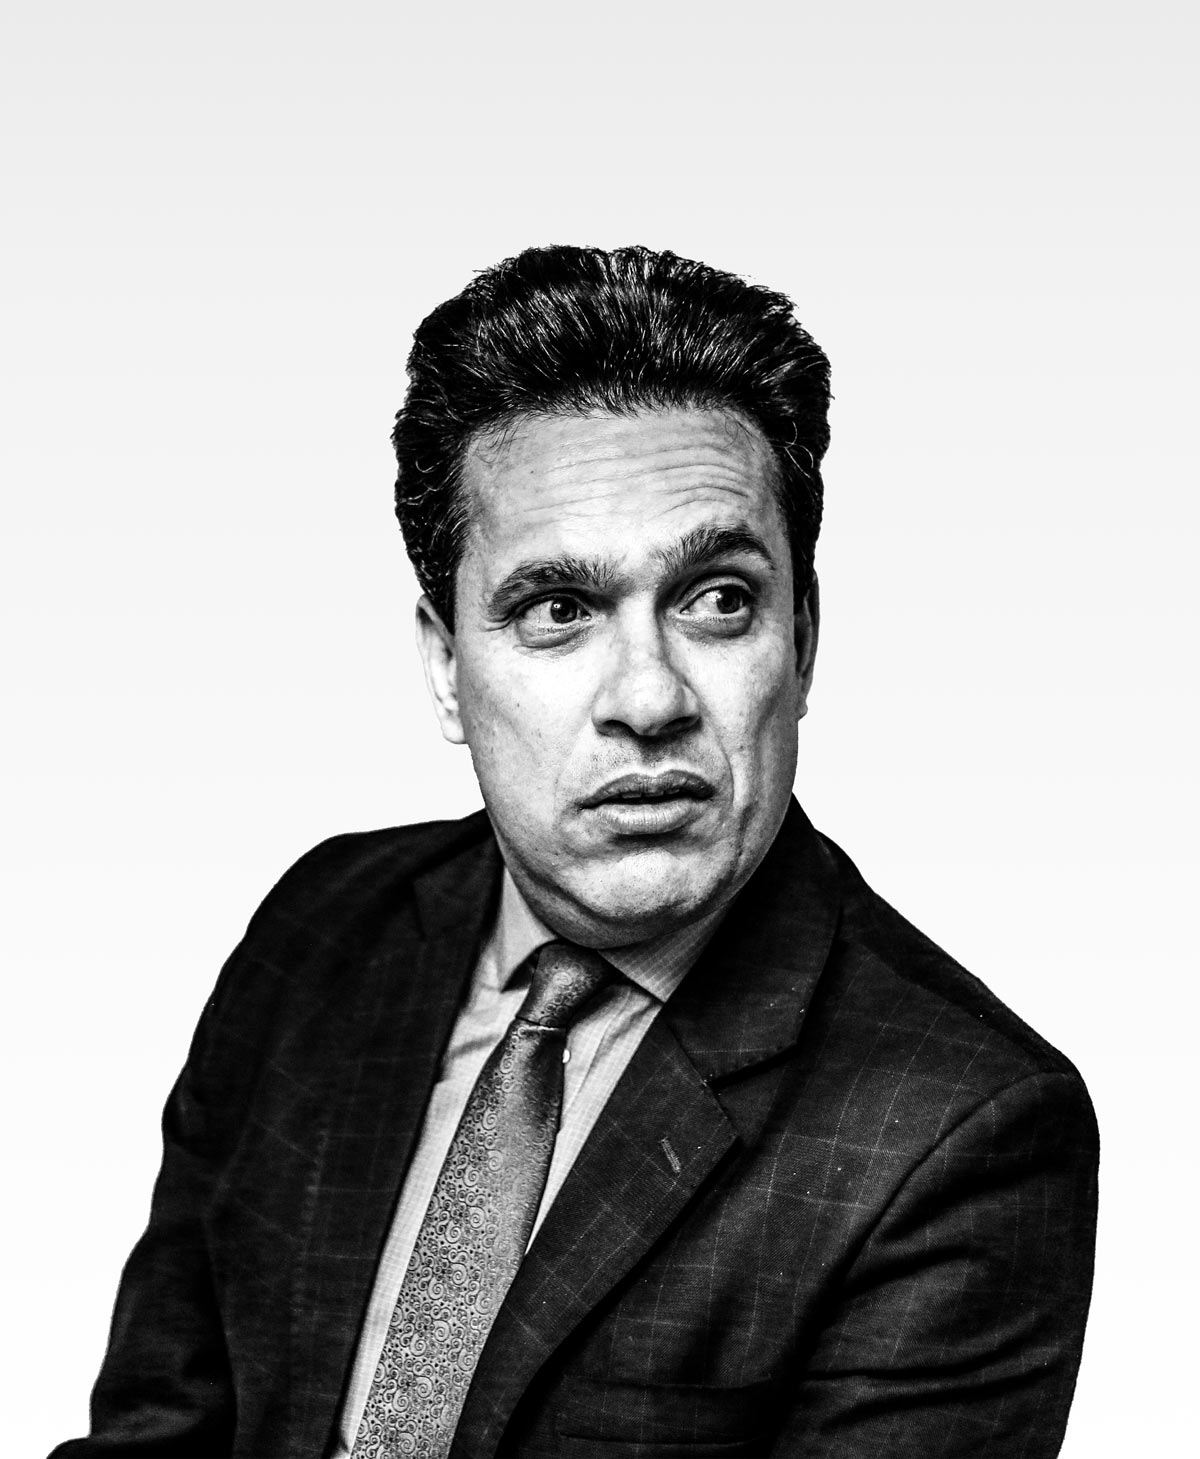
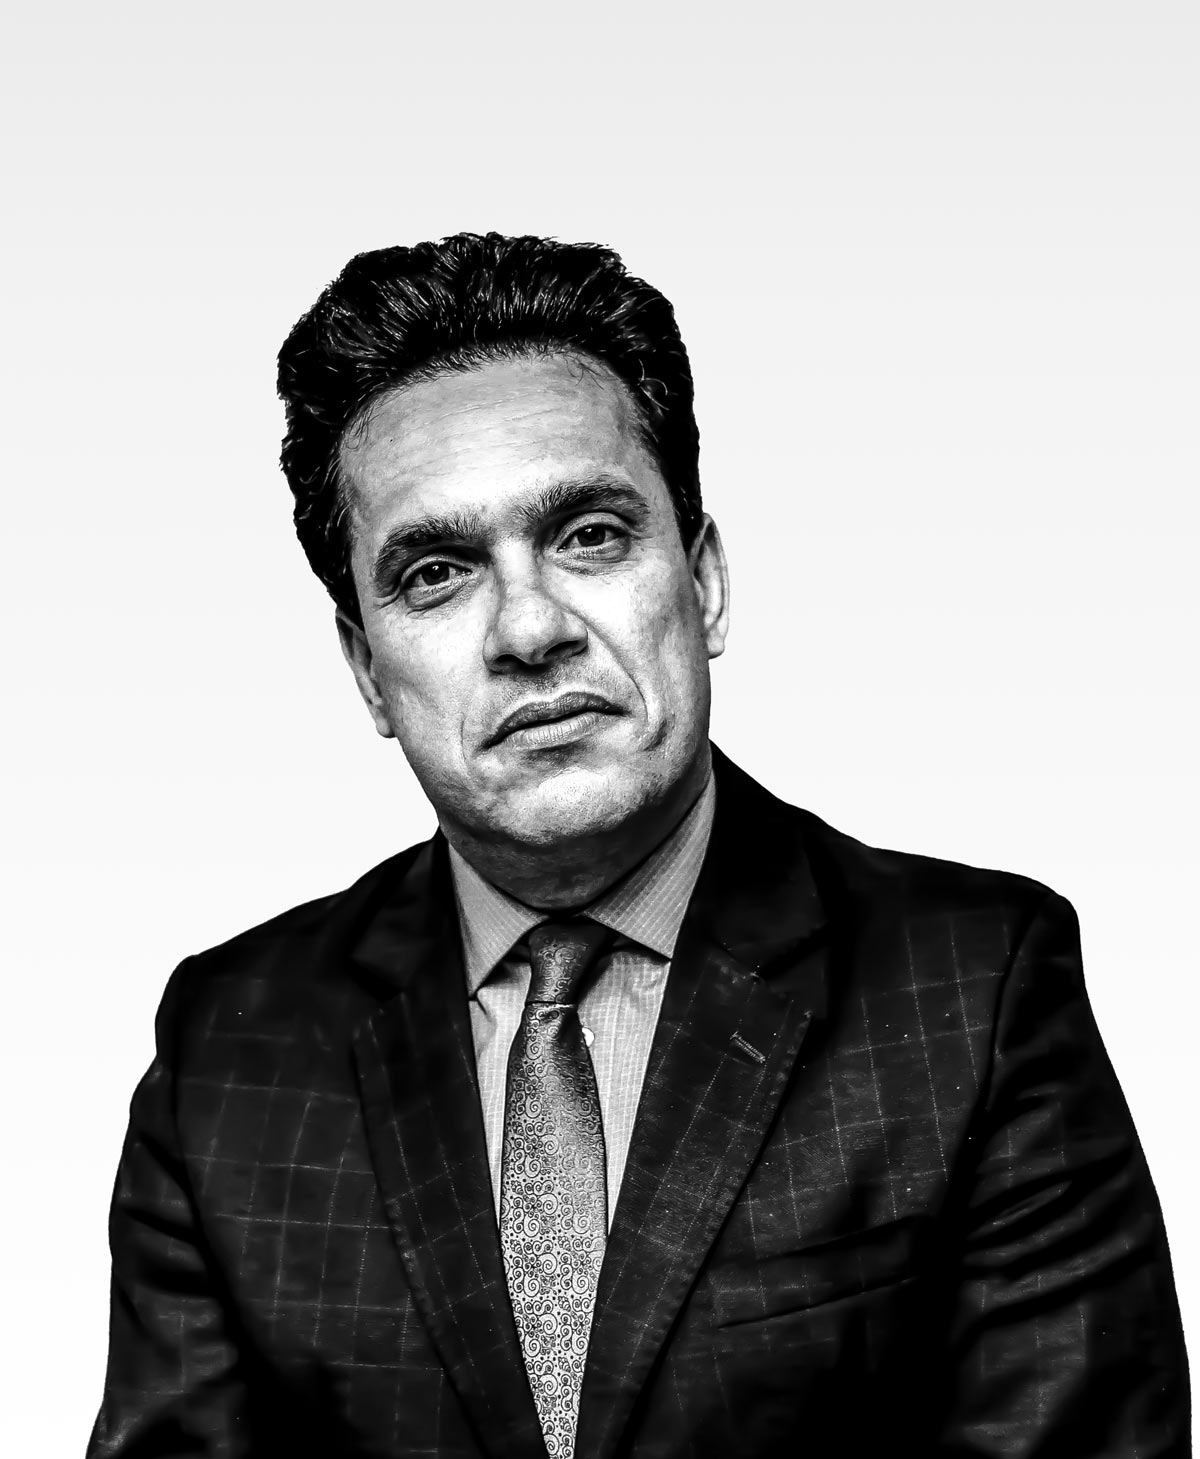
refactor profile picture into component and add onmousenter onmouseleave

diff --git a/gatsby-theme-reactor/src/components/contact.js b/gatsby-theme-reactor/src/components/contact.js
@@ -2,6 +2,9 @@
 import { jsx, Flex, Box, Styled } from 'theme-ui'
 import { useRef, useEffect } from 'react'
 import { useStaticQuery, graphql } from 'gatsby'
+import Envelope from '../assets/envelope.svg'
+import Mobile from '../assets/mobile.svg'
+import Pin from '../assets/pin.svg'
 import mapboxgl from 'mapbox-gl'
 const accessToken = process.env.MAPBOX_ACCESS_TOKEN
 mapboxgl.accessToken = accessToken 
@@ -24,10 +27,12 @@ const Contact = () => {
   const map = useRef()
   //const [geoLocation, setGeoLocation] = useState('Boulder CO')
   
-  const { bio: { location = 'Boulder CO' } } = useStaticQuery(graphql`
+  const { bio: { location = 'Boulder CO', email, phone } } = useStaticQuery(graphql`
     query {
       bio {
         location
+        email
+        phone
       }
     }
   `)
@@ -76,16 +81,18 @@ const Contact = () => {
             <div
               sx={{
                display: 'flex',
+               flexDirection: 'column',
                justifyContent: 'center',
                alignItems: 'center',
                height: 500,
                width: 500,
-               maxHeight: '100vh',
-               maxWidth: '100vh',
+               maxHeight: '100vw',
+               maxWidth: '100vw',
                borderRadius: 'full',
                p: 2,
                ml: [0, '10%'],
-               mt: -75,
+               mt: [-25, -75],
+               borderStyle: 'solid',
                boxShadow: '2xl',
                backgroundColor: theme => {
                  const [ hex = '000000' ] = /[0-9a-f]{6}/i.exec(theme.colors.primary);
@@ -95,10 +102,61 @@ const Contact = () => {
                color: 'white'
               }}>
               <Styled.h2 sx={{
-                color: 'white'
+                color: 'white',
+                mb: 4
               }}>
                 Contact Me
               </Styled.h2>
+              <div>
+                { email && (
+                  <div sx={{
+                    display: 'flex',
+                    alignItems: 'center',
+                    mb: 3
+                  }}>
+                    <Envelope sx={{
+                      width: 25,
+                      fill: 'white'
+                    }} />
+                    <span
+                      sx={{
+                        ml: 3
+                      }}>{ email }</span>
+                  </div>
+                )}
+                { phone && (
+                  <div sx={{
+                    display: 'flex',
+                    alignItems: 'center',
+                    mb: 3
+                  }}>
+                    <Mobile sx={{
+                      width: '20px',
+                      fill: 'white'
+                    }} />
+                    <span
+                      sx={{
+                        ml: 3
+                      }}>{ phone }</span>
+                  </div>
+                )}
+                { location && (
+                  <div sx={{
+                    display: 'flex',
+                    alignItems: 'center',
+                    mb: 3
+                  }}>
+                    <Pin sx={{
+                      width: '20px',
+                      fill: 'white'
+                    }} />
+                    <span
+                      sx={{
+                        ml: 3
+                      }}>{ location }</span>
+                  </div>
+                )}
+              </div>
             </div>
           </Box>
         </Flex>

diff --git a/gatsby-theme-reactor/src/templates/default.js b/gatsby-theme-reactor/src/templates/default.js
@@ -1,23 +1,17 @@
 /** @jsx jsx */
 import { jsx, Container, Flex, Box, Styled } from 'theme-ui'
-import { useStaticQuery, graphql, Link } from 'gatsby'
+import { useStaticQuery, graphql } from 'gatsby'
+import { AnchorLink } from "gatsby-plugin-anchor-links"
 import Layout from '../components/layout'
 import Subnav from '../components/subnav'
+import Profile from '../components/profile'
 import Separator from '../components/separator'
 import Portfolio from '../components/portfolio'
 import Contact from '../components/contact'
 
 const Default = () => {
-  const { allFile: { edges: [{ node: { publicURL } }] }, bio: { name, description, title, skills } } = useStaticQuery(graphql`
+  const { bio: { name, description, title, skills } } = useStaticQuery(graphql`
     query {
-      allFile(filter: { name: {eq: "profile"}}) {
-        edges {
-          node {
-            publicURL
-            name
-          }
-        }
-      }
       bio {
         description
         title
@@ -44,25 +38,7 @@ const Default = () => {
               sx={{
                 width: ['full', '1/2']
               }}>
-              <div
-                sx={{
-                  bg: theme => theme.colors.blue[2],
-                  boxShadow: '2xl',
-                  borderRadius: 'lg',
-                  mb: '50px'
-                }}>
-                <img 
-                  sx={{
-                    top: ['15px', '30px'],
-                    right: ['-15px', '-35px'],
-                    boxShadow: 'lg',
-                    borderRadius: 'lg',
-                    position: 'relative',
-                    maxWidth: 'full'
-                  }}
-                  src={publicURL}
-                  alt="Profile" />
-              </div>
+              <Profile /> 
             </Box>
             <Box
               sx={{
@@ -118,7 +94,7 @@ const Default = () => {
                     />
                   </svg>
                   <span sx={{ bg: theme => theme.colors.gray[3], ml: '-14px', mr: 4, width: 10, height: '3px', display: 'inline-block', verticalAlign: 'middle' }}></span>
-                  <Link
+                  <AnchorLink
                     sx={{
                       color: 'grayDark',
                       textTransform: 'uppercase',
@@ -131,8 +107,8 @@ const Default = () => {
                       borderStyle: 'solid',
                       borderColor: theme => theme.colors.orange[3]
                     }}
-                    to="/#"
-                    replace>Get In Touch</Link> 
+                    to="/#contact"
+                    replace>Get In Touch</AnchorLink> 
                 </Box>
               </Flex>
             </Box>

diff --git a/gatsby-theme-reactor/src/components/profile.js b/gatsby-theme-reactor/src/components/profile.js
@@ -1,0 +1,54 @@
+/** @jsx jsx */
+import { jsx } from 'theme-ui'
+import { useState } from 'react'
+import { useStaticQuery, graphql } from 'gatsby'
+
+/* eslint-disable jsx-a11y/no-noninteractive-element-interactions */
+const Profile = () => {
+  const { allFile } = useStaticQuery(graphql`
+    query {
+      allFile(filter: { name: {glob: "profile*"}}) {
+        edges {
+          node {
+            publicURL
+            name
+          }
+        }
+      }
+    }
+  `)
+  const profile = allFile.edges.find(({ node: { name }}) => name === 'profile')
+  const profileAlt = allFile.edges.find(({ node: { name }}) => name === 'profile-alt')
+
+  const [publicURL, setPublicURL] = useState(profile.node.publicURL)
+
+  return (
+    <div
+      sx={{
+        bg: theme => theme.colors.blue[2],
+        boxShadow: '2xl',
+        borderRadius: 'lg',
+        mb: '50px'
+      }}>
+      <img 
+        sx={{
+          top: ['15px', '30px'],
+          right: ['-15px', '-35px'],
+          boxShadow: 'lg',
+          borderRadius: 'lg',
+          position: 'relative',
+          maxWidth: 'full'
+        }}
+        onMouseEnter={() => {
+          setPublicURL(profileAlt.node.publicURL)
+        }}
+        onMouseLeave={() => {
+          setPublicURL(profile.node.publicURL)
+        }}
+        src={publicURL}
+        alt="Profile" />
+    </div>
+  )
+}
+
+export default Profile

diff --git a/gatsby-theme-reactor/gatsby-node.js b/gatsby-theme-reactor/gatsby-node.js
@@ -40,6 +40,8 @@ exports.sourceNodes = ({ actions }) => {
       social: [Social]
       skills: [String]
       location: String
+      email: String
+      phone: String
     }
   `)
 }
